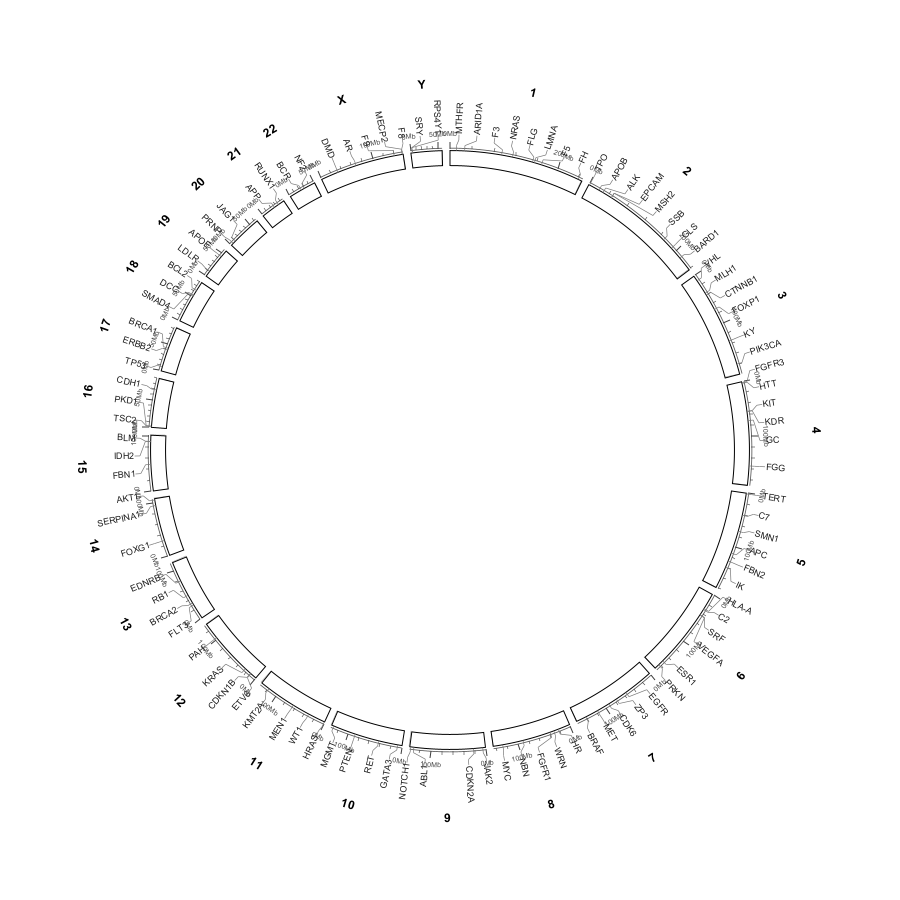
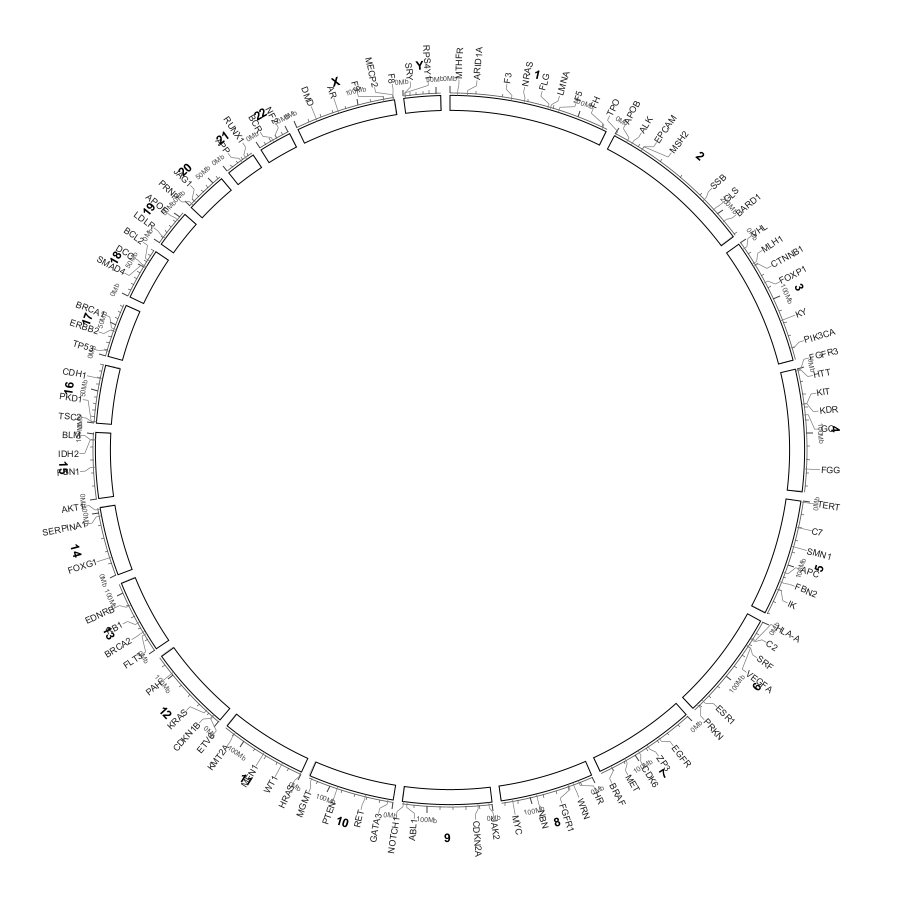
Make outside labels an overlay: no ring shrink, no chromosome-name move
- CircularViewPanel: drop the reserveLabels flag and the 4-arg
  ideogramOuterRadius overload; the outside label ring now starts at the
  unshrunk ideogram outer edge, so turning on Labels outside the ideogram
  no longer shrinks the ring or pushes the chromosome names/axis.
  Heatmap-outside shrink is preserved.
- Fix a stale Javadoc on hasVisibleLabels() (it no longer drives a ring shrink).
- Update circular_labels/overview/parameter_reference/screenshots/whats_new
  docs and regenerate the two outside-label screenshots.

Changed region(s): [[0.0622, 0.0622, 0.9333, 0.9333]]

diff --git a/src/main/java/org/broad/igv/ui/panel/CircularViewPanel.java b/src/main/java/org/broad/igv/ui/panel/CircularViewPanel.java
@@ -457,17 +457,17 @@ public class CircularViewPanel extends JPanel implements IGVEventObserver {
 
     /** Radius the labels hang from: the ideogram's INNER edge when inside, outer when outside. */
     static double labelBaseRadius(int w, int h, CircularSettings s) {
-        double rOut = ideogramOuterRadius(w, h, s, !s.labelInside ? true : false);
+        double rOut = ideogramOuterRadius(w, h, s);
         if (s.labelInside) {
             double R = Math.min(w, h) / 2.0 - MARGIN;
             return Math.max(R * 0.2, rOut - s.chromosomeHeightPx);
         }
-        // No automatic clearance: the label ring starts right after the connector, so
-        // "Connector height" is the single manual knob for clearing the axis tick text.
+        // No automatic clearance and no ring shrink: the label ring starts right at the
+        // ideogram edge, so "Connector height" is the single manual knob for placing it.
         return rOut;
     }
 
-    /** True when at least one visible labels layer exists (drives the ring shrink). */
+    /** True when at least one visible labels layer exists (drives the inside-label band reservation). */
     public boolean hasVisibleLabels() {
         for (CircularLayer l : layers) {
             if (l.kind == CircularLayer.Kind.LABELS && l.visible && !l.labels.isEmpty()) return true;
@@ -1054,13 +1054,13 @@ public class CircularViewPanel extends JPanel implements IGVEventObserver {
                     drawMessage(ig, w, h, "Gene list empty or no genes recognised");
                 } else {
                     lastChrs = geneChrs;
-                    drawAll(ig, w, h, geneChrs, settings, hasVisibleLabels());
+                    drawAll(ig, w, h, geneChrs, settings);
                     drawTrackRings(ig, w, h, geneChrs, settings);
                 }
             } else if (Globals.CHR_ALL.equals(chr)) {
                 List<ChrInfo> chrs = buildAll(genome, zoom, rangeZoom, settings);
                 lastChrs = chrs;
-                drawAll(ig, w, h, chrs, settings, hasVisibleLabels());
+                drawAll(ig, w, h, chrs, settings);
                 drawTrackRings(ig, w, h, chrs, settings);
                 // Links are an independent z-layer drawn last, like Circos, so they sit on top.
                 drawLinks(ig, w, h, chrs, allLinks(), settings, linkAnchorRadius(w, h, settings));
@@ -1069,7 +1069,7 @@ public class CircularViewPanel extends JPanel implements IGVEventObserver {
                 if (one == null) drawMessage(ig, w, h, "Chromosome not found: " + chr);
                 else {
                     lastChrs = Collections.singletonList(one);
-                    drawSingle(ig, w, h, one, settings, hasVisibleLabels());
+                    drawSingle(ig, w, h, one, settings);
                     drawTrackRingsSingle(ig, w, h, one, settings);
                     drawLinks(ig, w, h, Collections.singletonList(one), allLinks(), settings,
                             linkAnchorRadius(w, h, settings));
@@ -1145,13 +1145,13 @@ public class CircularViewPanel extends JPanel implements IGVEventObserver {
                 return;
             }
             lastChrs = geneChrs;
-            drawAll(g2, w, h, geneChrs, settings, hasVisibleLabels());
+            drawAll(g2, w, h, geneChrs, settings);
             drawTrackRings(g2, w, h, geneChrs, settings);
             drawLinks(g2, w, h, geneChrs, allLinks(), settings, linkAnchorRadius(w, h, settings));
         } else if (Globals.CHR_ALL.equals(chr)) {
             List<ChrInfo> chrs = buildAll(genome, zoom, rangeZoom, settings);
             lastChrs = chrs;
-            drawAll(g2, w, h, chrs, settings, hasVisibleLabels());
+            drawAll(g2, w, h, chrs, settings);
             drawTrackRings(g2, w, h, chrs, settings);
             drawLinks(g2, w, h, chrs, allLinks(), settings, linkAnchorRadius(w, h, settings));
         } else {
@@ -1161,7 +1161,7 @@ public class CircularViewPanel extends JPanel implements IGVEventObserver {
                 return;
             }
             lastChrs = Collections.singletonList(one);
-            drawSingle(g2, w, h, one, settings, hasVisibleLabels());
+            drawSingle(g2, w, h, one, settings);
             drawTrackRingsSingle(g2, w, h, one, settings);
             drawLinks(g2, w, h, Collections.singletonList(one), allLinks(), settings,
                     linkAnchorRadius(w, h, settings));
@@ -1614,24 +1614,19 @@ public class CircularViewPanel extends JPanel implements IGVEventObserver {
     }
 
     private static void drawAll(Graphics2D g2, int w, int h, List<ChrInfo> chrs, CircularSettings s) {
-        drawAll(g2, w, h, chrs, s, false);
-    }
-
-    private static void drawAll(Graphics2D g2, int w, int h, List<ChrInfo> chrs,
-                                CircularSettings s, boolean reserveLabels) {
         if (chrs == null || chrs.isEmpty()) { drawMessage(g2, w, h, "Circular view — no chromosomes"); return; }
         int cx = w / 2, cy = h / 2;
         double R = Math.min(w, h) / 2.0 - MARGIN;
         if (R <= 20) return;
-        double rOut = ideogramOuterRadius(w, h, s, reserveLabels);
+        double rOut = ideogramOuterRadius(w, h, s);
         double rIn = Math.max(R * 0.2, rOut - s.chromosomeHeightPx);
 
         List<double[]> sec = computeSectors(chrs, s.gapDeg);
+        // Chromosome names keep their default radius regardless of where a labels layer is
+        // drawn.  An outside labels layer must not push them outward (or shrink the ring, which
+        // would pull them inward): "Connector height" is the only knob the user asked for.
         double chrLabelR;
-        if (reserveLabels && !s.labelInside) {
-            // labels ring outside: keep the chromosome numbers beyond it
-            chrLabelR = labelBaseRadius(w, h, s) + labelRingReserve(s) + 12;
-        } else if (s.heatmapOutside) {
+        if (s.heatmapOutside) {
             // The heatmap ring lives outside the ideogram, so push the chromosome numbers past it
             // instead of letting them sit under the cells.
             chrLabelR = outsideHeatmapInner(rOut, s) + connectionTrackHeight(s)
@@ -1658,16 +1653,11 @@ public class CircularViewPanel extends JPanel implements IGVEventObserver {
     }
 
     private static void drawSingle(Graphics2D g2, int w, int h, ChrInfo chr, CircularSettings s) {
-        drawSingle(g2, w, h, chr, s, false);
-    }
-
-    private static void drawSingle(Graphics2D g2, int w, int h, ChrInfo chr,
-                                   CircularSettings s, boolean reserveLabels) {
         if (chr == null || chr.length <= 0) return;
         int cx = w / 2, cy = h / 2;
         double R = Math.min(w, h) / 2.0 - MARGIN;
         if (R <= 20) return;
-        double rOut = ideogramOuterRadius(w, h, s, reserveLabels);
+        double rOut = ideogramOuterRadius(w, h, s);
         double rIn = Math.max(R * 0.2, rOut - s.chromosomeHeightPx);
 
         double[] sec = sectorsFor(Collections.singletonList(chr), s).get(0);
@@ -1767,18 +1757,15 @@ public class CircularViewPanel extends JPanel implements IGVEventObserver {
 
     /**
      * Outer radius of the ideogram band. When the heatmap is placed OUTSIDE, the whole ring is
-     * pulled in so the connection track + heatmap band still fit inside the panel.
+     * pulled in so the connection track + heatmap band still fit inside the panel.  A labels
+     * layer deliberately does NOT shrink the ring: outside labels grow from this edge and are
+     * positioned manually with "Connector height", leaving chromosome names and the axis where
+     * they normally are.
      */
     static double ideogramOuterRadius(int w, int h, CircularSettings s) {
-        return ideogramOuterRadius(w, h, s, false);
-    }
-
-    /** Same, reserving room outside the ring for a labels layer (circos.genomicLabels). */
-    static double ideogramOuterRadius(int w, int h, CircularSettings s, boolean reserveLabels) {
         double half = Math.min(w, h) / 2.0;
         double R = half - MARGIN;
         double rOut = R * s.bandOuter;
-        if (reserveLabels && !s.labelInside) rOut = Math.min(rOut, R * 0.76);  // room outside
         if (!s.heatmapOutside) return rOut;
         double need = outsideAxisClearance(s) + connectionTrackHeight(s)
                 + Math.max(8, s.heatmapHeightPx > 0 ? s.heatmapHeightPx : 50) + 18;

diff --git a/docs/circular_labels.rst b/docs/circular_labels.rst
@@ -69,8 +69,10 @@ Parameters
    * - ``Labels outside the ideogram``
      - off
      - ``off`` (default): the label ring is **inside** the ideogram.  ``on``:
-       the labels and their combs grow outwards.  Text stays radial in both
-       modes.
+       the labels and their combs grow outwards from the ideogram's outer edge.
+       Text stays radial in both modes.  Switching to outside mode does **not**
+       move the chromosome names or the coordinate axis, and does not shrink the
+       ring.
    * - ``Read labels toward the centre``
      - off
      - Flips the radial text baseline so the name reads from outside to inside.
@@ -104,15 +106,31 @@ Parameters
      - Gap between two adjacent names when ``smartAlign`` tiles them end to
        end.  Clamped to ``0 – 30``.
 
+.. important::
+
+   **Outside labels change nothing else in the layout.**  ``labelBaseRadius()``
+   returns the ideogram outer radius directly, with no automatic clearance
+   offset, and ``ideogramOuterRadius()`` no longer reserves room for a labels
+   layer.  As a result:
+
+   * the ideogram ring keeps its normal radius (``R × bandOuter``);
+   * chromosome names stay at their default radius just outside the ring —
+     they are **not** pushed out beyond the label ring;
+   * the coordinate axis, ticks and tick labels stay where they normally are.
+
+   This is deliberate: an outside labels layer is an overlay, not a reason to
+   re-layout the figure.
+
 .. tip::
 
-   **Outside mode does not auto-avoid the axis tick text.**  This is
-   intentional.  ``labelBaseRadius()`` returns the ideogram outer radius
-   directly for outside labels, with no automatic clearance offset; the label
-   ring starts immediately after the connector.  If outside names collide with
-   the coordinate-axis numbers, raise ``Connector height…`` — it is the single
-   manual knob for that clearance.  Alternatively switch tick labels to
-   ``Inside (below the band)`` in :doc:`circular_view_options`.
+   **Outside mode does not auto-avoid the axis tick text or the chromosome
+   names.**  If outside names collide with them, raise ``Connector height…`` —
+   it is the single manual knob for positioning the label ring.  Alternatively
+   switch tick labels to ``Inside (below the band)`` in
+   :doc:`circular_view_options`.  Contrast this with
+   ``Heatmap outside the ideogram`` (see :doc:`circular_heatmap`), which *does*
+   shrink the ring because the heatmap band and its comb need a guaranteed
+   radial slot.
 
 Inside versus outside
 ---------------------
@@ -122,14 +140,17 @@ Inside versus outside
    :width: 60%
 
    ``Labels outside the ideogram`` on.  Labels remain radial and still point
-   toward the centre; the ideogram radius shrinks to make room.
+   toward the centre.  The ideogram keeps its normal radius and the chromosome
+   names stay in their usual place; only the label ring and its combs grow
+   outward.
 
 .. figure:: images/labels_outside_zoom.png
    :alt: Zoomed detail of outside radial labels and outward comb connectors
    :width: 60%
 
-   Zoomed outside mode.  The comb now points outward, and the names are still
-   radial rather than horizontal.
+   Zoomed outside mode.  The comb points outward and the names are still
+   radial.  The chromosome numbers (``1``, ``2``, ``3``) stay at their usual
+   radius; raise ``Connector height…`` to move the label ring clear of them.
 
 .. figure:: images/labels_ring_inward.png
    :alt: Circular ring with labels reading toward the centre

diff --git a/docs/parameter_reference.rst b/docs/parameter_reference.rst
@@ -459,7 +459,9 @@ Labels layer — right-click a Labels row
      - off
      - on / off
      - ``off`` (default) puts the label ring **inside** the ideogram with
-       radial text; ``on`` puts it outside, still radial.
+       radial text; ``on`` puts it outside, still radial.  Outside mode does
+       **not** shrink the ring or move the chromosome names / coordinate axis:
+       the label ring grows from the ideogram's normal outer edge.
    * - ``Read labels toward the centre``
      - off
      - on / off
@@ -577,8 +579,8 @@ Export dialog
 Full details, validation messages and format-specific behaviour are in
 :doc:`circular_export`.
 
-Three gotchas worth remembering
--------------------------------
+Four gotchas worth remembering
+------------------------------
 
 #. **Heatmap legend labels are upper-case enum names.**  ``Legend position``
    shows ``TOP_LEFT`` … ``NONE``, whereas the Hi-C ``Color legend`` shows
@@ -590,6 +592,11 @@ Three gotchas worth remembering
    height no longer changes with window size.
 #. **Outside labels do not auto-avoid tick text.**  Increase ``Connector
    height…`` manually until the label ring clears the coordinate axis labels.
+#. **Outside labels never re-layout the rest of the figure.**  Turning on
+   ``Labels outside the ideogram`` does not shrink the ideogram ring and does
+   not move the chromosome names or the axis — unlike ``Heatmap outside the
+   ideogram``, which does shrink the ring.  ``Connector height…`` is the only
+   control for where the outside label ring sits.
 
 .. seealso::
 

diff --git a/docs/circular_overview.rst b/docs/circular_overview.rst
@@ -47,8 +47,11 @@ Anatomy of the figure
 Reading from the outside in:
 
 #. **Heatmap and label rings (optional, outermost when outside mode is on).**
-   ``Heatmap outside the ideogram`` and/or ``Labels outside the ideogram`` grow
-   outward; the ideogram radius shrinks to make room.
+   ``Heatmap outside the ideogram`` grows outward and shrinks the ideogram
+   radius to guarantee a radial slot for the band and its comb.
+   ``Labels outside the ideogram`` also grows outward, but leaves the ideogram
+   radius, chromosome names and coordinate axis untouched — position it with
+   ``Connector height…``.
 #. **Coordinate axis and tick labels.**  Major/minor ticks, Mb labels, and
    chromosome names.  Tick labels can sit outside (``Outside (above the band)``,
    default) or inside (``Inside (below the band)``).

diff --git a/docs/screenshots.rst b/docs/screenshots.rst
@@ -272,10 +272,12 @@ Labels
      - Zoomed radial labels with comb connectors and ``smartAlign`` tiling.
      - :doc:`circular_import`, :doc:`circular_labels`
    * - ``labels_ring_outside.png``
-     - ``Labels outside the ideogram`` — radial text outside the ring.
+     - ``Labels outside the ideogram`` — radial text outside the ring, with the
+       ideogram radius and chromosome names unchanged.
      - :doc:`circular_labels`
    * - ``labels_outside_zoom.png``
-     - Zoom of the outside label ring.
+     - Zoom of the outside label ring: outward combs, radial names and
+       chromosome numbers left at their default radius.
      - :doc:`circular_labels`
    * - ``labels_ring_inward.png``
      - ``Read labels toward the centre`` flips the reading direction.

diff --git a/docs/whats_new.rst b/docs/whats_new.rst
@@ -157,7 +157,8 @@ v1.0.2 tag.
      - :doc:`circular_heatmap`
    * - Genomic labels ring
      - Radial gene labels with comb connectors, circlize ``smartAlign`` for
-       dense regions, inward reading, and full typographic control.
+       dense regions, inward reading, and full typographic control.  Outside
+       mode leaves the ideogram radius, chromosome names and axis untouched.
      - :doc:`circular_labels`
    * - Hi-C on the ring
      - Triangle/square Hi-C contact matrices warped into a ring, with TAD
